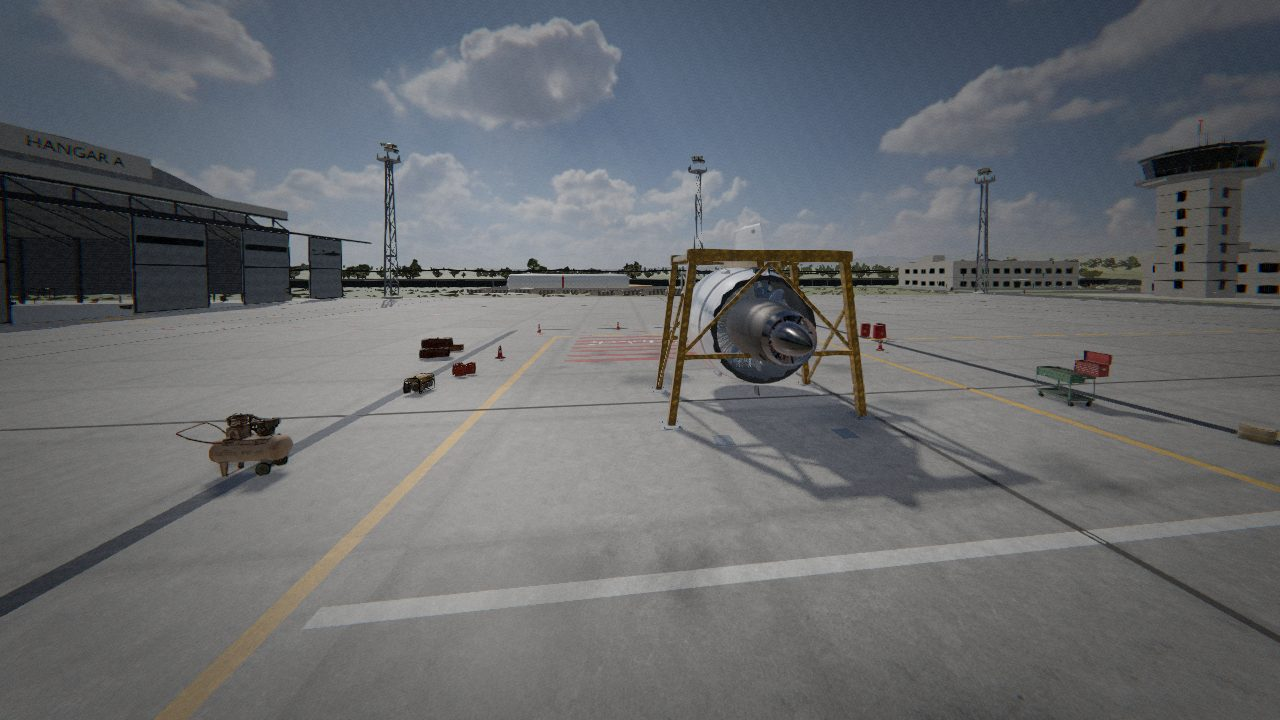
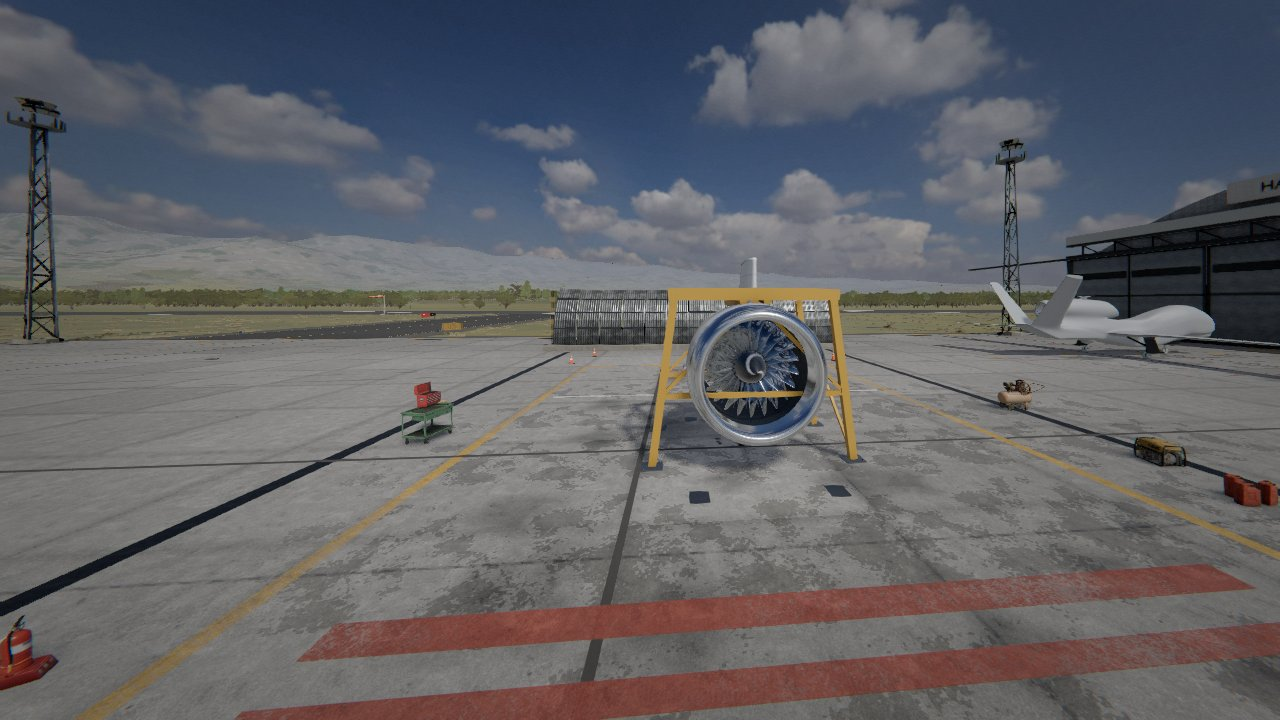
README: yeni havaalanı görselleri (apron, kule, hangar)
Claude-Session: https://claude.ai/code/session_01PhrDqVHxnigMaLekzyPQf5

diff --git a/README.md b/README.md
@@ -55,7 +55,8 @@ ortam kapanması binaların içini ve dibini karartır, gölgeler ±120 m'yi kap
 | | |
 | --- | --- |
 | ![Havaalanı: apron](renders/24-havaalani-apron.jpg) | ![Havaalanı: genel görünüm](renders/25-havaalani-genel.jpg) |
-| ![Açık hangar](renders/27-havaalani-hangar.jpg) | ![Gece](renders/28-havaalani-gece.jpg) |
+| ![Açık hangar](renders/27-havaalani-hangar.jpg) | ![Kule ve itfaiye](renders/29-havaalani-kule.jpg) |
+| ![Gece](renders/28-havaalani-gece.jpg) | |
 | ![Hücre, önce](renders/22-hucre-once.jpg) | ![Hücre, sonra: gerçek modeller](renders/23-hucre-sonra.jpg) |
 
 **Test hücresi ortamı** — Blender'da modellenip Cycles ile ışığı pişirilmiş
